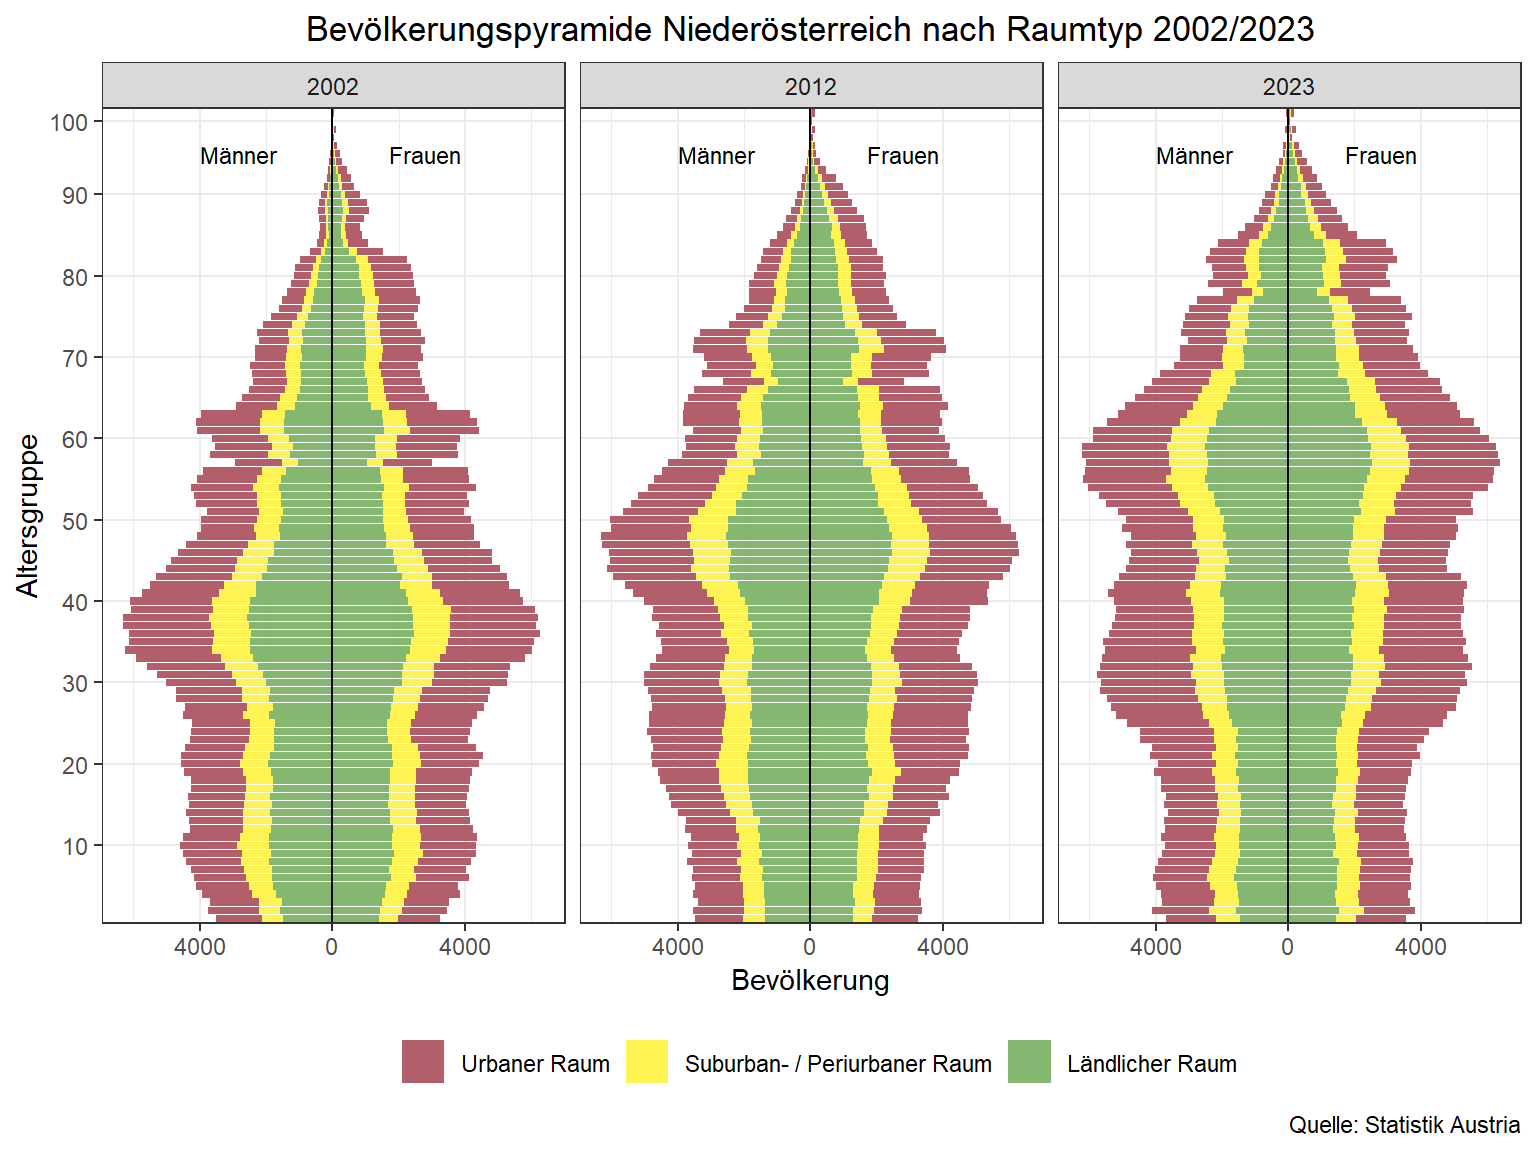
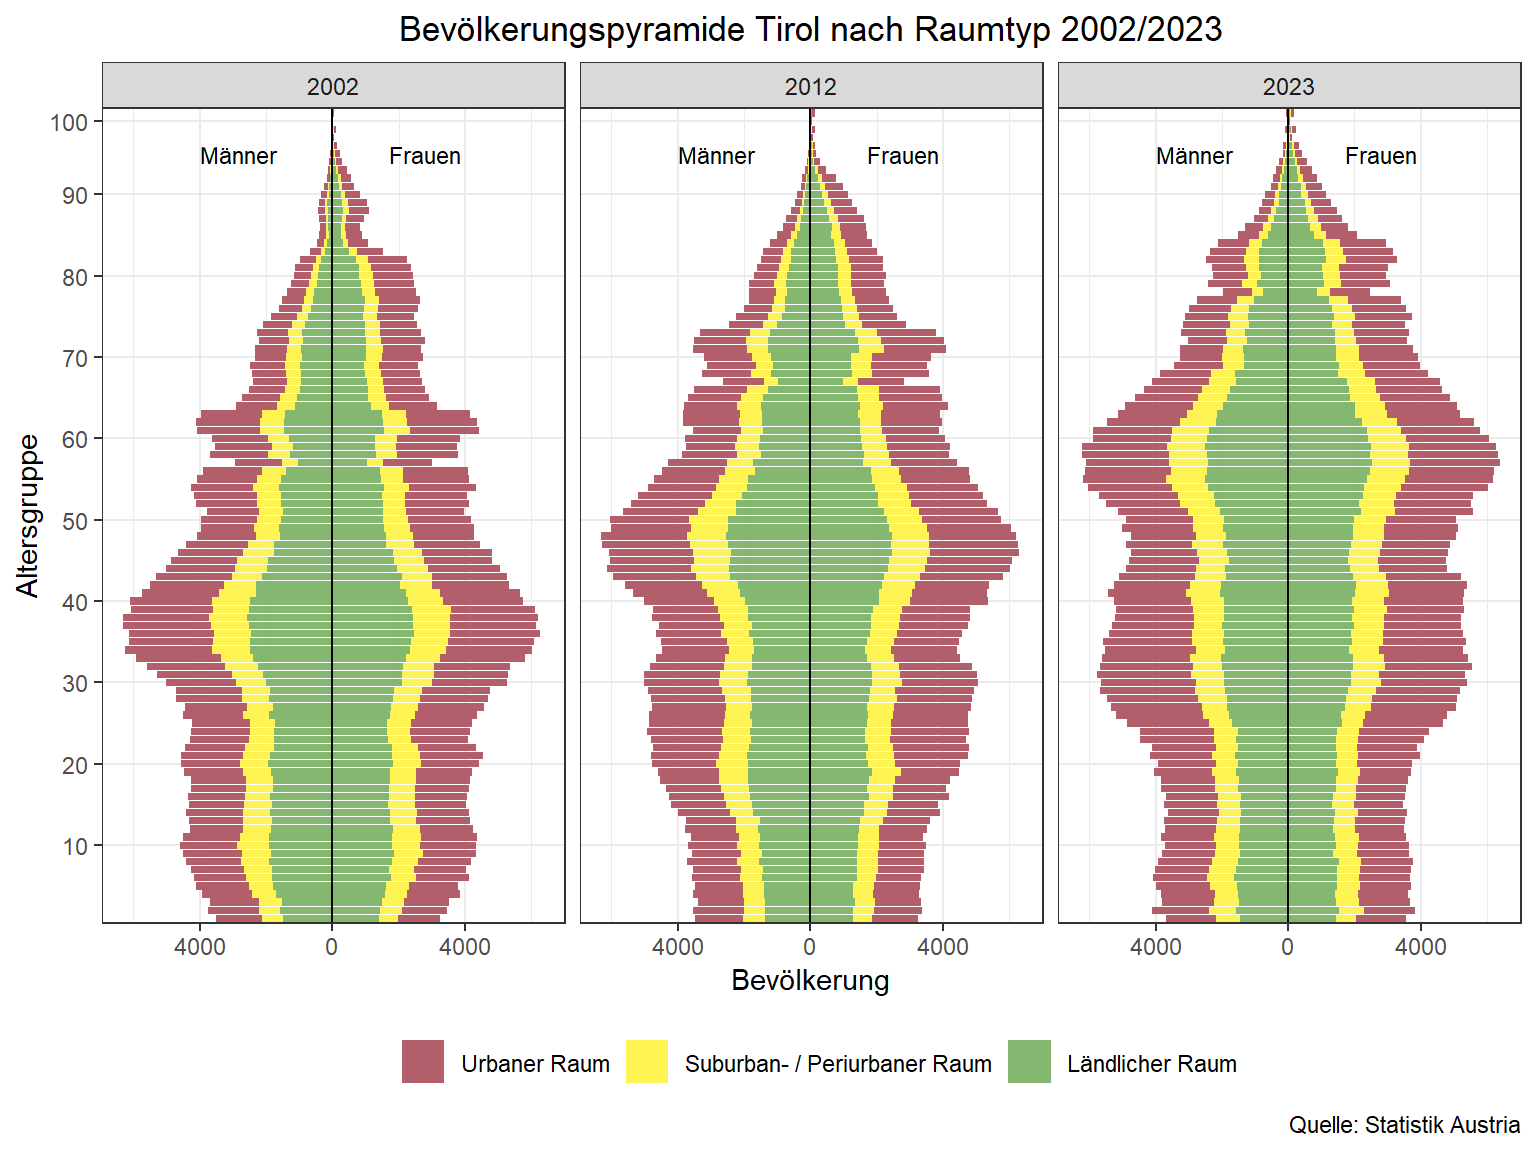
update

Changed region(s): [[0.1875, 0.0, 0.8438, 0.0625]]

diff --git a/docs/05_regional_profile.html b/docs/05_regional_profile.html
@@ -492,7 +492,7 @@ pre > code.sourceCode > span > a:first-child::before { text-decoration: underlin
 <span id="cb25-10"><a href="#cb25-10" aria-hidden="true" tabindex="-1"></a>  <span class="fu">labs</span>(<span class="at">x=</span><span class="st">"Bevölkerung"</span>,</span>
 <span id="cb25-11"><a href="#cb25-11" aria-hidden="true" tabindex="-1"></a>       <span class="at">y=</span><span class="st">"Altersgruppe"</span>,</span>
 <span id="cb25-12"><a href="#cb25-12" aria-hidden="true" tabindex="-1"></a>       <span class="at">fill=</span><span class="st">""</span>,</span>
-<span id="cb25-13"><a href="#cb25-13" aria-hidden="true" tabindex="-1"></a>       <span class="at">title =</span> <span class="st">"Bevölkerungspyramide Niederösterreich nach Raumtyp 2002/2023"</span>,</span>
+<span id="cb25-13"><a href="#cb25-13" aria-hidden="true" tabindex="-1"></a>       <span class="at">title =</span> <span class="st">"Bevölkerungspyramide Tirol nach Raumtyp 2002/2023"</span>,</span>
 <span id="cb25-14"><a href="#cb25-14" aria-hidden="true" tabindex="-1"></a>       <span class="at">caption =</span> <span class="st">"Quelle: Statistik Austria"</span>)<span class="sc">+</span></span>
 <span id="cb25-15"><a href="#cb25-15" aria-hidden="true" tabindex="-1"></a>  <span class="fu">facet_grid</span>(.<span class="sc">~</span>jahr)<span class="sc">+</span></span>
 <span id="cb25-16"><a href="#cb25-16" aria-hidden="true" tabindex="-1"></a>  <span class="fu">theme_bw</span>()<span class="sc">+</span></span>
@@ -521,7 +521,7 @@ pre > code.sourceCode > span > a:first-child::before { text-decoration: underlin
 <span id="cb26-10"><a href="#cb26-10" aria-hidden="true" tabindex="-1"></a>  <span class="fu">labs</span>(<span class="at">x=</span><span class="st">"Bevölkerung"</span>,</span>
 <span id="cb26-11"><a href="#cb26-11" aria-hidden="true" tabindex="-1"></a>       <span class="at">y=</span><span class="st">"Altersgruppe"</span>,</span>
 <span id="cb26-12"><a href="#cb26-12" aria-hidden="true" tabindex="-1"></a>       <span class="at">fill=</span><span class="st">""</span>,</span>
-<span id="cb26-13"><a href="#cb26-13" aria-hidden="true" tabindex="-1"></a>       <span class="at">title =</span> <span class="st">"Bevölkerungspyramide Niederösterreich nach Raumtyp 2002/2023"</span>,</span>
+<span id="cb26-13"><a href="#cb26-13" aria-hidden="true" tabindex="-1"></a>       <span class="at">title =</span> <span class="st">"Bevölkerungspyramide Tirol nach Raumtyp 2002/2023"</span>,</span>
 <span id="cb26-14"><a href="#cb26-14" aria-hidden="true" tabindex="-1"></a>       <span class="at">caption =</span> <span class="st">"Quelle: Statistik Austria"</span>)<span class="sc">+</span></span>
 <span id="cb26-15"><a href="#cb26-15" aria-hidden="true" tabindex="-1"></a>  <span class="fu">facet_grid</span>(typ<span class="sc">~</span>jahr)<span class="sc">+</span></span>
 <span id="cb26-16"><a href="#cb26-16" aria-hidden="true" tabindex="-1"></a>  <span class="fu">theme_bw</span>()<span class="sc">+</span></span>
